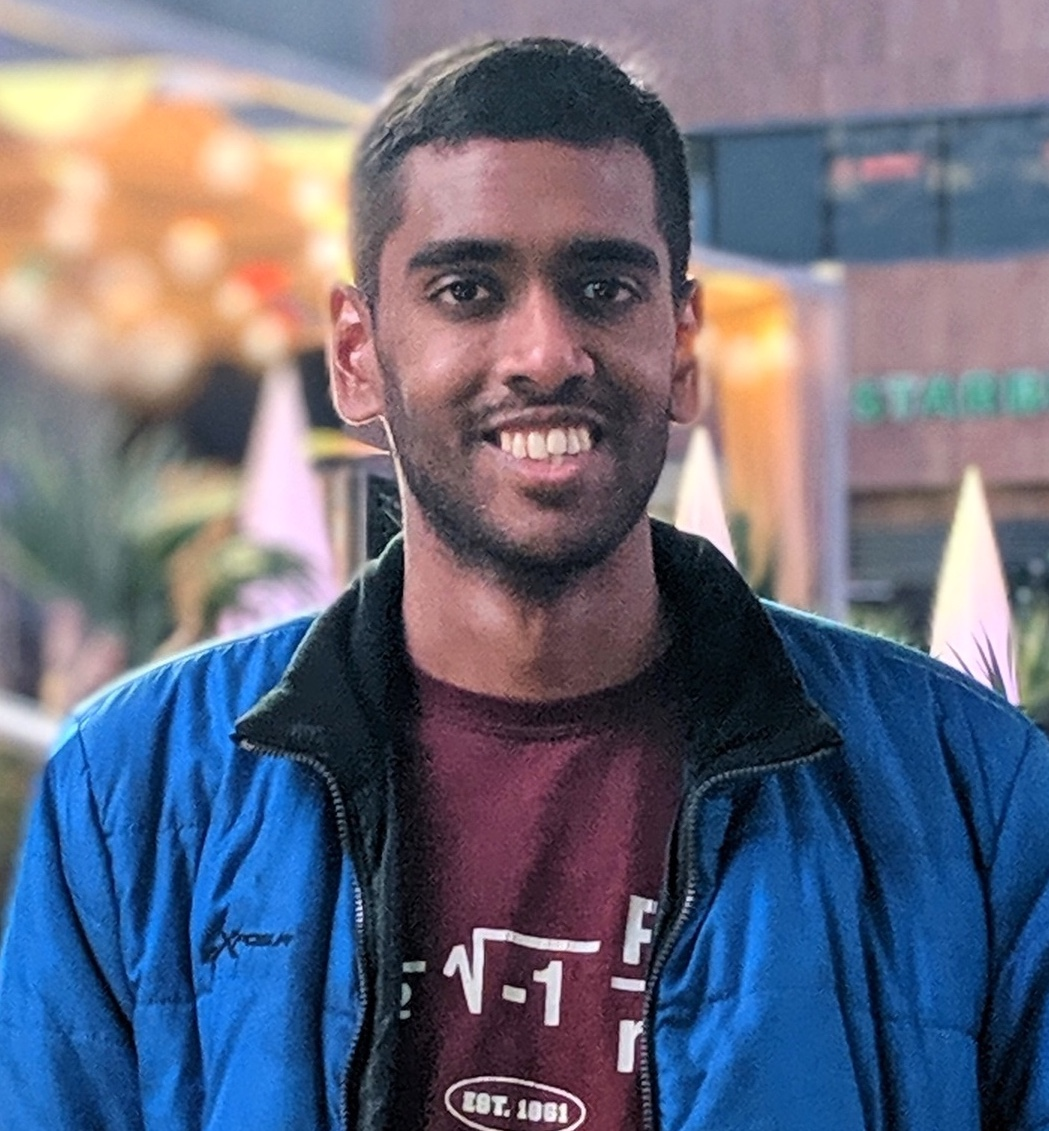
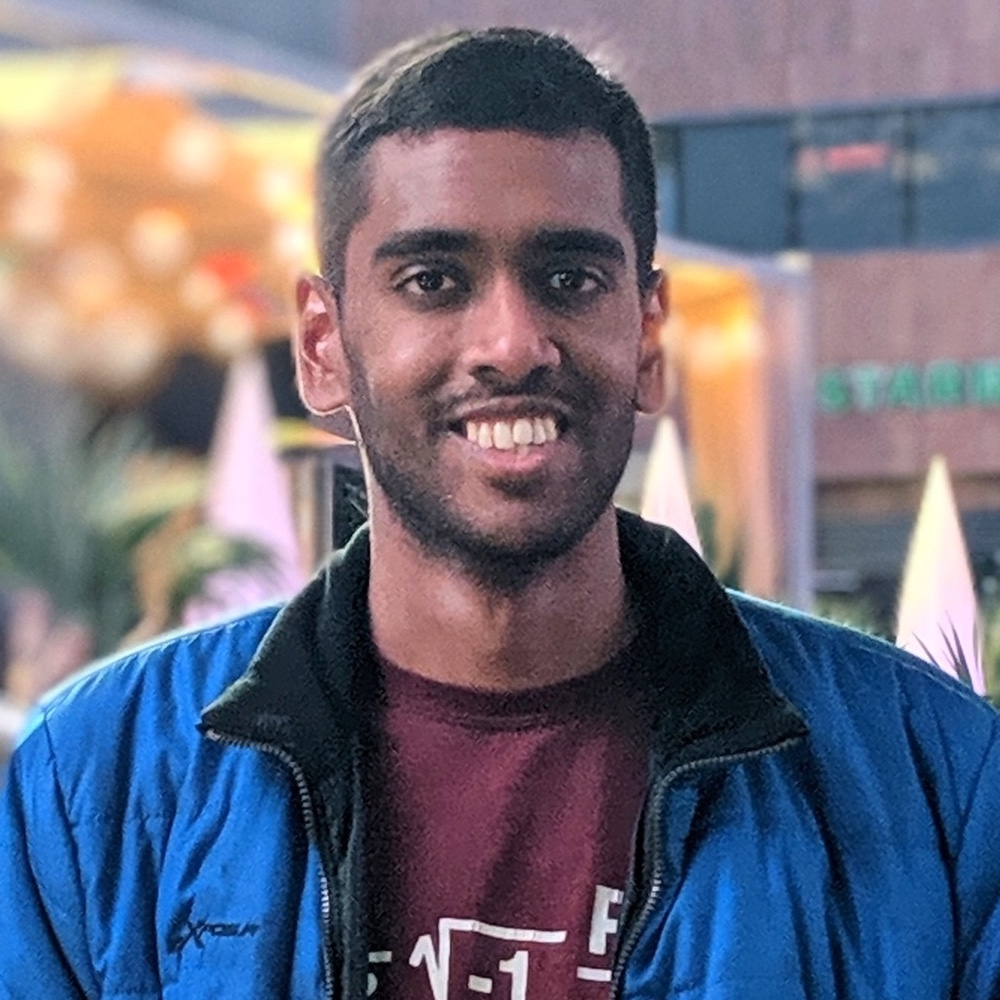
editing image

diff --git a/index.html b/index.html
@@ -1,7 +1,7 @@
 ---
 title: Sourya Dey | Home
 ---
-<img src="/images/DTLA closeup.jpeg" alt="Sourya Dey photo">
+<img src="/images/DTLA closeup.jpeg" alt="Sourya Dey photo" height="300" width="300">
 <div class="blurb">
 	<h1>Hi there, I'm Sourya Dey!</h1>
 	<p><a href="https://drive.google.com/file/d/1WXYgE3ixlgUgXPiAWSbWNyUTxP7bcR9S/view?usp=sharing">Here is my CV</a></p>
